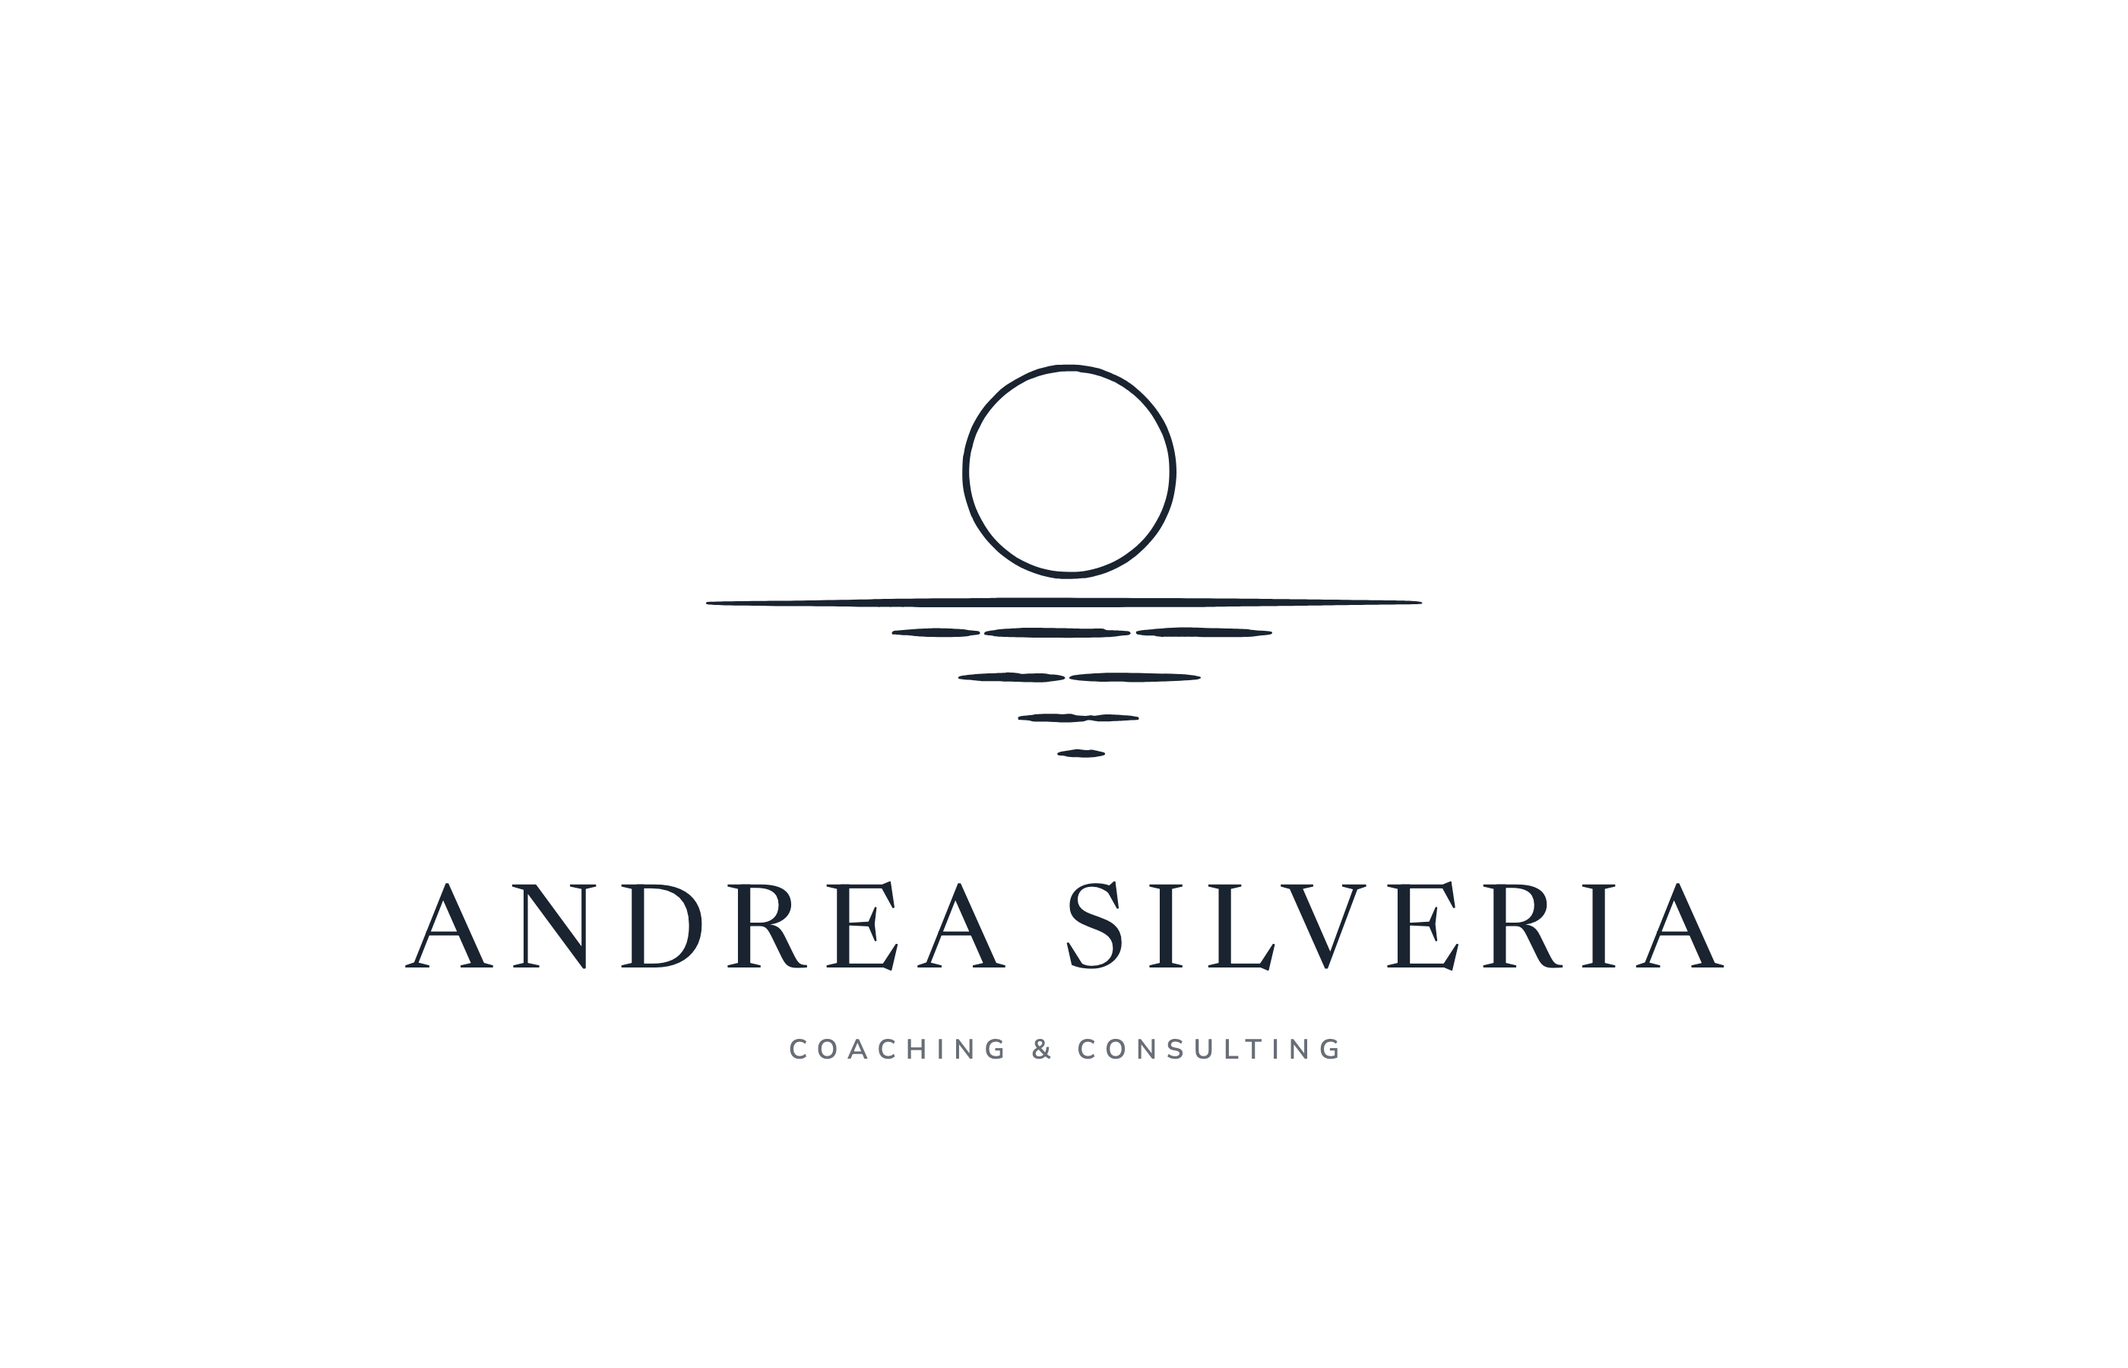
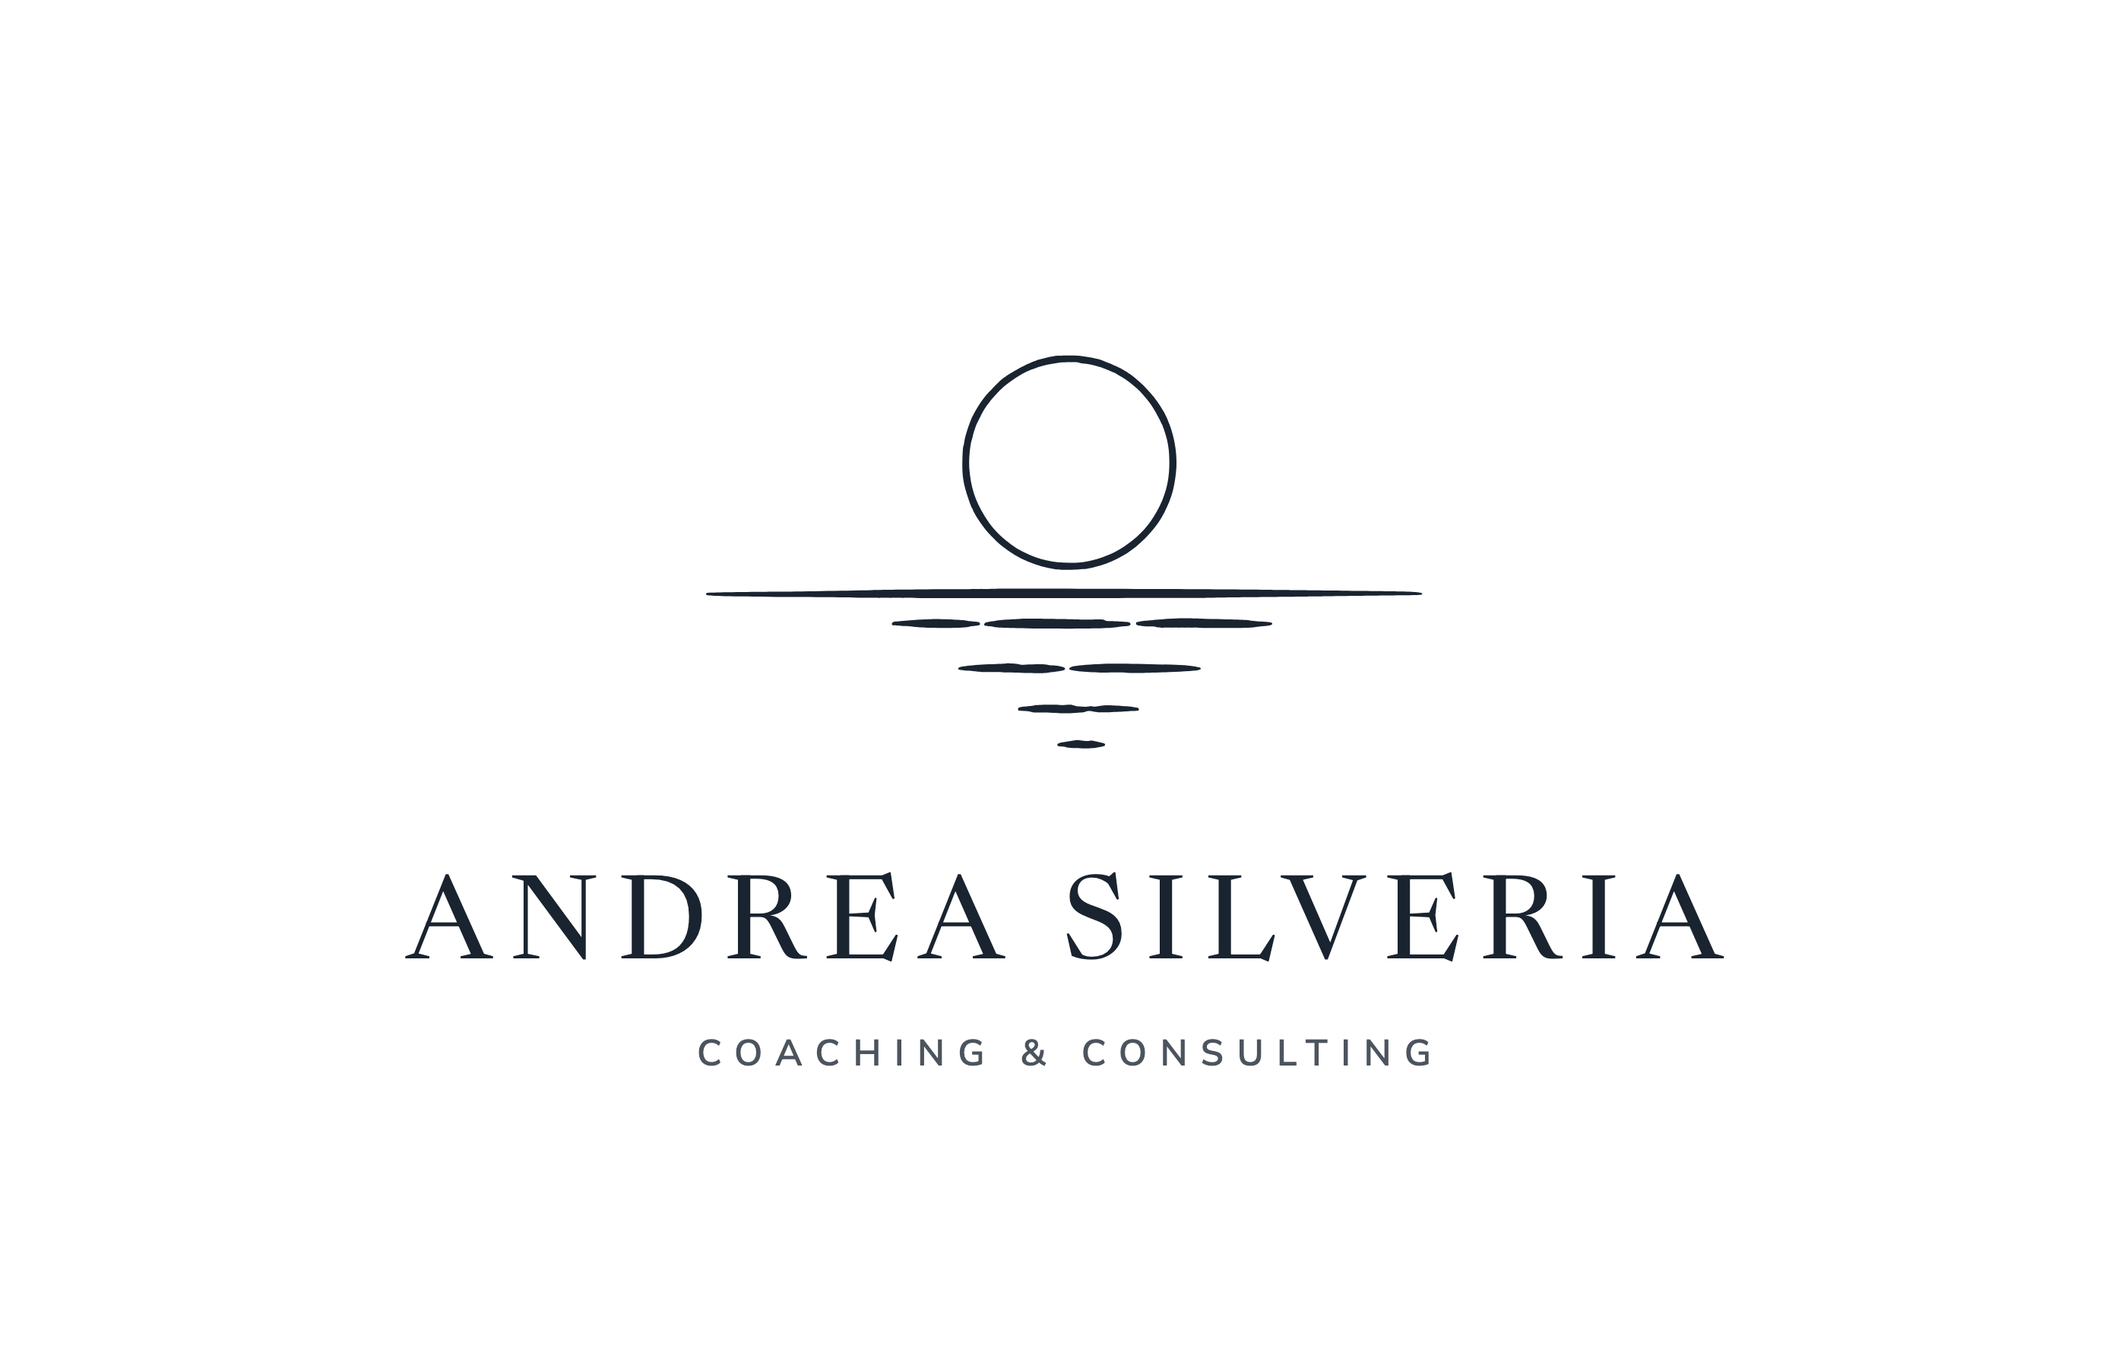
Andi: enlarge Coaching & Consulting sub-line in stacked lockups (18->24px, opacity .78); re-render set + client sheet

diff --git a/andi-silveria/brand/final/_email-signature.html b/andi-silveria/brand/final/_email-signature.html
@@ -1,0 +1,15 @@
+<!DOCTYPE html><html><head><meta charset="utf-8"><link href="https://fonts.googleapis.com/css2?family=Newsreader:ital,opsz,wght@0,6..72,400;1,6..72,300&family=Mulish:wght@600&display=swap" rel="stylesheet"><style>
+*{margin:0;padding:0;box-sizing:border-box}
+body{font-family:'Mulish',sans-serif;display:flex;align-items:center;justify-content:center;overflow:hidden}
+.lock{text-align:center;color:var(--ink)}
+.lock img{display:block;margin:0 auto;height:var(--mh)}
+.name{font-family:'Newsreader',serif;font-weight:400;font-size:var(--ns);letter-spacing:.16em;text-indent:.16em;line-height:1.1;margin-top:var(--gap);white-space:nowrap}
+.sub{font-weight:600;font-size:var(--ss);letter-spacing:.36em;text-indent:.36em;opacity:.78;margin-top:var(--sgap);white-space:nowrap}
+.sub.ital{font-family:'Newsreader',serif;font-style:italic;font-weight:300;letter-spacing:.02em;text-indent:0;font-size:calc(var(--ss)*1.7);opacity:.72}
+/* horizontal (email signature) */
+.row{display:flex;align-items:center;gap:var(--gap);color:var(--ink);text-align:left}
+.row img{height:var(--mh);display:block}
+.row .name{margin-top:0}
+.row .sub{margin-top:var(--sgap)}
+
+body{width:600px;height:140px;background:transparent;--ink:#1A2430;--mh:96px;--ns:30px;--ss:9px;--gap:28px;--sgap:8px}</style></head><body><div class="row"><img src="mark-moonset-navy.svg"><div><div class="name">ANDREA SILVERIA</div><div class="sub">COACHING &amp; CONSULTING</div></div></div></body></html>

diff --git a/andi-silveria/brand/final/_email-signature-dark.html b/andi-silveria/brand/final/_email-signature-dark.html
@@ -1,0 +1,15 @@
+<!DOCTYPE html><html><head><meta charset="utf-8"><link href="https://fonts.googleapis.com/css2?family=Newsreader:ital,opsz,wght@0,6..72,400;1,6..72,300&family=Mulish:wght@600&display=swap" rel="stylesheet"><style>
+*{margin:0;padding:0;box-sizing:border-box}
+body{font-family:'Mulish',sans-serif;display:flex;align-items:center;justify-content:center;overflow:hidden}
+.lock{text-align:center;color:var(--ink)}
+.lock img{display:block;margin:0 auto;height:var(--mh)}
+.name{font-family:'Newsreader',serif;font-weight:400;font-size:var(--ns);letter-spacing:.16em;text-indent:.16em;line-height:1.1;margin-top:var(--gap);white-space:nowrap}
+.sub{font-weight:600;font-size:var(--ss);letter-spacing:.36em;text-indent:.36em;opacity:.78;margin-top:var(--sgap);white-space:nowrap}
+.sub.ital{font-family:'Newsreader',serif;font-style:italic;font-weight:300;letter-spacing:.02em;text-indent:0;font-size:calc(var(--ss)*1.7);opacity:.72}
+/* horizontal (email signature) */
+.row{display:flex;align-items:center;gap:var(--gap);color:var(--ink);text-align:left}
+.row img{height:var(--mh);display:block}
+.row .name{margin-top:0}
+.row .sub{margin-top:var(--sgap)}
+
+body{width:600px;height:140px;background:#1A2430;--ink:#FBF9F4;--mh:96px;--ns:30px;--ss:9px;--gap:28px;--sgap:8px}</style></head><body><div class="row"><img src="mark-moonset-cream.svg"><div><div class="name">ANDREA SILVERIA</div><div class="sub">COACHING &amp; CONSULTING</div></div></div></body></html>

diff --git a/andi-silveria/brand/final/_lockup-dark-italic-sub.html b/andi-silveria/brand/final/_lockup-dark-italic-sub.html
@@ -1,0 +1,15 @@
+<!DOCTYPE html><html><head><meta charset="utf-8"><link href="https://fonts.googleapis.com/css2?family=Newsreader:ital,opsz,wght@0,6..72,400;1,6..72,300&family=Mulish:wght@600&display=swap" rel="stylesheet"><style>
+*{margin:0;padding:0;box-sizing:border-box}
+body{font-family:'Mulish',sans-serif;display:flex;align-items:center;justify-content:center;overflow:hidden}
+.lock{text-align:center;color:var(--ink)}
+.lock img{display:block;margin:0 auto;height:var(--mh)}
+.name{font-family:'Newsreader',serif;font-weight:400;font-size:var(--ns);letter-spacing:.16em;text-indent:.16em;line-height:1.1;margin-top:var(--gap);white-space:nowrap}
+.sub{font-weight:600;font-size:var(--ss);letter-spacing:.36em;text-indent:.36em;opacity:.78;margin-top:var(--sgap);white-space:nowrap}
+.sub.ital{font-family:'Newsreader',serif;font-style:italic;font-weight:300;letter-spacing:.02em;text-indent:0;font-size:calc(var(--ss)*1.7);opacity:.72}
+/* horizontal (email signature) */
+.row{display:flex;align-items:center;gap:var(--gap);color:var(--ink);text-align:left}
+.row img{height:var(--mh);display:block}
+.row .name{margin-top:0}
+.row .sub{margin-top:var(--sgap)}
+
+body{width:2000px;height:1400px;background:#1A2430;--ink:#FBF9F4;--mh:340px;--ns:76px;--ss:18px;--gap:38px;--sgap:12px}</style></head><body><div class="lock"><img src="mark-moonset-cream.svg"><div class="name">ANDREA SILVERIA</div><div class="sub ital">Coaching &amp; Consulting</div></div></body></html>

diff --git a/andi-silveria/brand/final/_lockup-transparent-cream.html b/andi-silveria/brand/final/_lockup-transparent-cream.html
@@ -1,0 +1,15 @@
+<!DOCTYPE html><html><head><meta charset="utf-8"><link href="https://fonts.googleapis.com/css2?family=Newsreader:ital,opsz,wght@0,6..72,400;1,6..72,300&family=Mulish:wght@600&display=swap" rel="stylesheet"><style>
+*{margin:0;padding:0;box-sizing:border-box}
+body{font-family:'Mulish',sans-serif;display:flex;align-items:center;justify-content:center;overflow:hidden}
+.lock{text-align:center;color:var(--ink)}
+.lock img{display:block;margin:0 auto;height:var(--mh)}
+.name{font-family:'Newsreader',serif;font-weight:400;font-size:var(--ns);letter-spacing:.16em;text-indent:.16em;line-height:1.1;margin-top:var(--gap);white-space:nowrap}
+.sub{font-weight:600;font-size:var(--ss);letter-spacing:.36em;text-indent:.36em;opacity:.78;margin-top:var(--sgap);white-space:nowrap}
+.sub.ital{font-family:'Newsreader',serif;font-style:italic;font-weight:300;letter-spacing:.02em;text-indent:0;font-size:calc(var(--ss)*1.7);opacity:.72}
+/* horizontal (email signature) */
+.row{display:flex;align-items:center;gap:var(--gap);color:var(--ink);text-align:left}
+.row img{height:var(--mh);display:block}
+.row .name{margin-top:0}
+.row .sub{margin-top:var(--sgap)}
+
+body{width:1400px;height:900px;background:transparent;--ink:#FBF9F4;--mh:340px;--ns:76px;--ss:24px;--gap:38px;--sgap:22px}</style></head><body><div class="lock"><img src="mark-moonset-cream.svg"><div class="name">ANDREA SILVERIA</div><div class="sub">COACHING &amp; CONSULTING</div></div></body></html>

diff --git a/andi-silveria/brand/final/_lockup-transparent-navy.html b/andi-silveria/brand/final/_lockup-transparent-navy.html
@@ -1,0 +1,15 @@
+<!DOCTYPE html><html><head><meta charset="utf-8"><link href="https://fonts.googleapis.com/css2?family=Newsreader:ital,opsz,wght@0,6..72,400;1,6..72,300&family=Mulish:wght@600&display=swap" rel="stylesheet"><style>
+*{margin:0;padding:0;box-sizing:border-box}
+body{font-family:'Mulish',sans-serif;display:flex;align-items:center;justify-content:center;overflow:hidden}
+.lock{text-align:center;color:var(--ink)}
+.lock img{display:block;margin:0 auto;height:var(--mh)}
+.name{font-family:'Newsreader',serif;font-weight:400;font-size:var(--ns);letter-spacing:.16em;text-indent:.16em;line-height:1.1;margin-top:var(--gap);white-space:nowrap}
+.sub{font-weight:600;font-size:var(--ss);letter-spacing:.36em;text-indent:.36em;opacity:.78;margin-top:var(--sgap);white-space:nowrap}
+.sub.ital{font-family:'Newsreader',serif;font-style:italic;font-weight:300;letter-spacing:.02em;text-indent:0;font-size:calc(var(--ss)*1.7);opacity:.72}
+/* horizontal (email signature) */
+.row{display:flex;align-items:center;gap:var(--gap);color:var(--ink);text-align:left}
+.row img{height:var(--mh);display:block}
+.row .name{margin-top:0}
+.row .sub{margin-top:var(--sgap)}
+
+body{width:1400px;height:900px;background:transparent;--ink:#1A2430;--mh:340px;--ns:76px;--ss:24px;--gap:38px;--sgap:22px}</style></head><body><div class="lock"><img src="mark-moonset-navy.svg"><div class="name">ANDREA SILVERIA</div><div class="sub">COACHING &amp; CONSULTING</div></div></body></html>

diff --git a/andi-silveria/brand/final/_lockup-dark.html b/andi-silveria/brand/final/_lockup-dark.html
@@ -1,0 +1,15 @@
+<!DOCTYPE html><html><head><meta charset="utf-8"><link href="https://fonts.googleapis.com/css2?family=Newsreader:ital,opsz,wght@0,6..72,400;1,6..72,300&family=Mulish:wght@600&display=swap" rel="stylesheet"><style>
+*{margin:0;padding:0;box-sizing:border-box}
+body{font-family:'Mulish',sans-serif;display:flex;align-items:center;justify-content:center;overflow:hidden}
+.lock{text-align:center;color:var(--ink)}
+.lock img{display:block;margin:0 auto;height:var(--mh)}
+.name{font-family:'Newsreader',serif;font-weight:400;font-size:var(--ns);letter-spacing:.16em;text-indent:.16em;line-height:1.1;margin-top:var(--gap);white-space:nowrap}
+.sub{font-weight:600;font-size:var(--ss);letter-spacing:.36em;text-indent:.36em;opacity:.78;margin-top:var(--sgap);white-space:nowrap}
+.sub.ital{font-family:'Newsreader',serif;font-style:italic;font-weight:300;letter-spacing:.02em;text-indent:0;font-size:calc(var(--ss)*1.7);opacity:.72}
+/* horizontal (email signature) */
+.row{display:flex;align-items:center;gap:var(--gap);color:var(--ink);text-align:left}
+.row img{height:var(--mh);display:block}
+.row .name{margin-top:0}
+.row .sub{margin-top:var(--sgap)}
+
+body{width:2000px;height:1400px;background:#1A2430;--ink:#FBF9F4;--mh:340px;--ns:76px;--ss:24px;--gap:38px;--sgap:22px}</style></head><body><div class="lock"><img src="mark-moonset-cream.svg"><div class="name">ANDREA SILVERIA</div><div class="sub">COACHING &amp; CONSULTING</div></div></body></html>

diff --git a/andi-silveria/brand/final/_lockup-light.html b/andi-silveria/brand/final/_lockup-light.html
@@ -1,0 +1,15 @@
+<!DOCTYPE html><html><head><meta charset="utf-8"><link href="https://fonts.googleapis.com/css2?family=Newsreader:ital,opsz,wght@0,6..72,400;1,6..72,300&family=Mulish:wght@600&display=swap" rel="stylesheet"><style>
+*{margin:0;padding:0;box-sizing:border-box}
+body{font-family:'Mulish',sans-serif;display:flex;align-items:center;justify-content:center;overflow:hidden}
+.lock{text-align:center;color:var(--ink)}
+.lock img{display:block;margin:0 auto;height:var(--mh)}
+.name{font-family:'Newsreader',serif;font-weight:400;font-size:var(--ns);letter-spacing:.16em;text-indent:.16em;line-height:1.1;margin-top:var(--gap);white-space:nowrap}
+.sub{font-weight:600;font-size:var(--ss);letter-spacing:.36em;text-indent:.36em;opacity:.78;margin-top:var(--sgap);white-space:nowrap}
+.sub.ital{font-family:'Newsreader',serif;font-style:italic;font-weight:300;letter-spacing:.02em;text-indent:0;font-size:calc(var(--ss)*1.7);opacity:.72}
+/* horizontal (email signature) */
+.row{display:flex;align-items:center;gap:var(--gap);color:var(--ink);text-align:left}
+.row img{height:var(--mh);display:block}
+.row .name{margin-top:0}
+.row .sub{margin-top:var(--sgap)}
+
+body{width:2000px;height:1400px;background:#F7F3EA;--ink:#1A2430;--mh:340px;--ns:76px;--ss:24px;--gap:38px;--sgap:22px}</style></head><body><div class="lock"><img src="mark-moonset-navy.svg"><div class="name">ANDREA SILVERIA</div><div class="sub">COACHING &amp; CONSULTING</div></div></body></html>

diff --git a/andi-silveria/brand/final/_avatar-dark.html b/andi-silveria/brand/final/_avatar-dark.html
@@ -1,0 +1,15 @@
+<!DOCTYPE html><html><head><meta charset="utf-8"><link href="https://fonts.googleapis.com/css2?family=Newsreader:ital,opsz,wght@0,6..72,400;1,6..72,300&family=Mulish:wght@600&display=swap" rel="stylesheet"><style>
+*{margin:0;padding:0;box-sizing:border-box}
+body{font-family:'Mulish',sans-serif;display:flex;align-items:center;justify-content:center;overflow:hidden}
+.lock{text-align:center;color:var(--ink)}
+.lock img{display:block;margin:0 auto;height:var(--mh)}
+.name{font-family:'Newsreader',serif;font-weight:400;font-size:var(--ns);letter-spacing:.16em;text-indent:.16em;line-height:1.1;margin-top:var(--gap);white-space:nowrap}
+.sub{font-weight:600;font-size:var(--ss);letter-spacing:.36em;text-indent:.36em;opacity:.78;margin-top:var(--sgap);white-space:nowrap}
+.sub.ital{font-family:'Newsreader',serif;font-style:italic;font-weight:300;letter-spacing:.02em;text-indent:0;font-size:calc(var(--ss)*1.7);opacity:.72}
+/* horizontal (email signature) */
+.row{display:flex;align-items:center;gap:var(--gap);color:var(--ink);text-align:left}
+.row img{height:var(--mh);display:block}
+.row .name{margin-top:0}
+.row .sub{margin-top:var(--sgap)}
+
+body{width:1000px;height:1000px;background:#1A2430;--ink:#FBF9F4;--mh:520px;--ns:0px;--ss:0px;--gap:0px;--sgap:0px}</style></head><body><div class="lock"><img src="mark-moonset-cream.svg"></div></body></html>

diff --git a/andi-silveria/brand/final/_avatar-light.html b/andi-silveria/brand/final/_avatar-light.html
@@ -1,0 +1,15 @@
+<!DOCTYPE html><html><head><meta charset="utf-8"><link href="https://fonts.googleapis.com/css2?family=Newsreader:ital,opsz,wght@0,6..72,400;1,6..72,300&family=Mulish:wght@600&display=swap" rel="stylesheet"><style>
+*{margin:0;padding:0;box-sizing:border-box}
+body{font-family:'Mulish',sans-serif;display:flex;align-items:center;justify-content:center;overflow:hidden}
+.lock{text-align:center;color:var(--ink)}
+.lock img{display:block;margin:0 auto;height:var(--mh)}
+.name{font-family:'Newsreader',serif;font-weight:400;font-size:var(--ns);letter-spacing:.16em;text-indent:.16em;line-height:1.1;margin-top:var(--gap);white-space:nowrap}
+.sub{font-weight:600;font-size:var(--ss);letter-spacing:.36em;text-indent:.36em;opacity:.78;margin-top:var(--sgap);white-space:nowrap}
+.sub.ital{font-family:'Newsreader',serif;font-style:italic;font-weight:300;letter-spacing:.02em;text-indent:0;font-size:calc(var(--ss)*1.7);opacity:.72}
+/* horizontal (email signature) */
+.row{display:flex;align-items:center;gap:var(--gap);color:var(--ink);text-align:left}
+.row img{height:var(--mh);display:block}
+.row .name{margin-top:0}
+.row .sub{margin-top:var(--sgap)}
+
+body{width:1000px;height:1000px;background:#F7F3EA;--ink:#1A2430;--mh:520px;--ns:0px;--ss:0px;--gap:0px;--sgap:0px}</style></head><body><div class="lock"><img src="mark-moonset-navy.svg"></div></body></html>

diff --git a/andi-silveria/brand/final/build.py b/andi-silveria/brand/final/build.py
@@ -10,7 +10,7 @@ body{font-family:'Mulish',sans-serif;display:flex;align-items:center;justify-con
 .lock{text-align:center;color:var(--ink)}
 .lock img{display:block;margin:0 auto;height:var(--mh)}
 .name{font-family:'Newsreader',serif;font-weight:400;font-size:var(--ns);letter-spacing:.16em;text-indent:.16em;line-height:1.1;margin-top:var(--gap);white-space:nowrap}
-.sub{font-weight:600;font-size:var(--ss);letter-spacing:.36em;text-indent:.36em;opacity:.66;margin-top:var(--sgap);white-space:nowrap}
+.sub{font-weight:600;font-size:var(--ss);letter-spacing:.36em;text-indent:.36em;opacity:.78;margin-top:var(--sgap);white-space:nowrap}
 .sub.ital{font-family:'Newsreader',serif;font-style:italic;font-weight:300;letter-spacing:.02em;text-indent:0;font-size:calc(var(--ss)*1.7);opacity:.72}
 /* horizontal (email signature) */
 .row{display:flex;align-items:center;gap:var(--gap);color:var(--ink);text-align:left}
@@ -31,11 +31,11 @@ def row(mark):
 
 jobs = [
  # name, html, width, height, transparent
- ("lockup-dark",    page(stacked("mark-moonset-cream.svg"), NAVY,  CREAM, 340, 76, 18, 38, 18), 2000, 1400, False),
- ("lockup-light",   page(stacked("mark-moonset-navy.svg"),  LIGHTBG, NAVY, 340, 76, 18, 38, 18), 2000, 1400, False),
+ ("lockup-dark",    page(stacked("mark-moonset-cream.svg"), NAVY,  CREAM, 340, 76, 24, 38, 22), 2000, 1400, False),
+ ("lockup-light",   page(stacked("mark-moonset-navy.svg"),  LIGHTBG, NAVY, 340, 76, 24, 38, 22), 2000, 1400, False),
  ("lockup-dark-italic-sub",  page(stacked("mark-moonset-cream.svg", True), NAVY, CREAM, 340, 76, 18, 38, 12), 2000, 1400, False),
- ("lockup-transparent-navy", page(stacked("mark-moonset-navy.svg"), "transparent", NAVY, 340, 76, 18, 38, 18, 1400, 900), 1400, 900, True),
- ("lockup-transparent-cream",page(stacked("mark-moonset-cream.svg"), "transparent", CREAM, 340, 76, 18, 38, 18, 1400, 900), 1400, 900, True),
+ ("lockup-transparent-navy", page(stacked("mark-moonset-navy.svg"), "transparent", NAVY, 340, 76, 24, 38, 22, 1400, 900), 1400, 900, True),
+ ("lockup-transparent-cream",page(stacked("mark-moonset-cream.svg"), "transparent", CREAM, 340, 76, 24, 38, 22, 1400, 900), 1400, 900, True),
  ("avatar-dark",    page('<div class="lock"><img src="mark-moonset-cream.svg"></div>', NAVY, CREAM, 520, 0, 0, 0, 0, 1000, 1000), 1000, 1000, False),
  ("avatar-light",   page('<div class="lock"><img src="mark-moonset-navy.svg"></div>', LIGHTBG, NAVY, 520, 0, 0, 0, 0, 1000, 1000), 1000, 1000, False),
  ("email-signature",page(row("mark-moonset-navy.svg"), "transparent", NAVY, 96, 30, 9, 28, 8, 600, 140), 600, 140, True),
